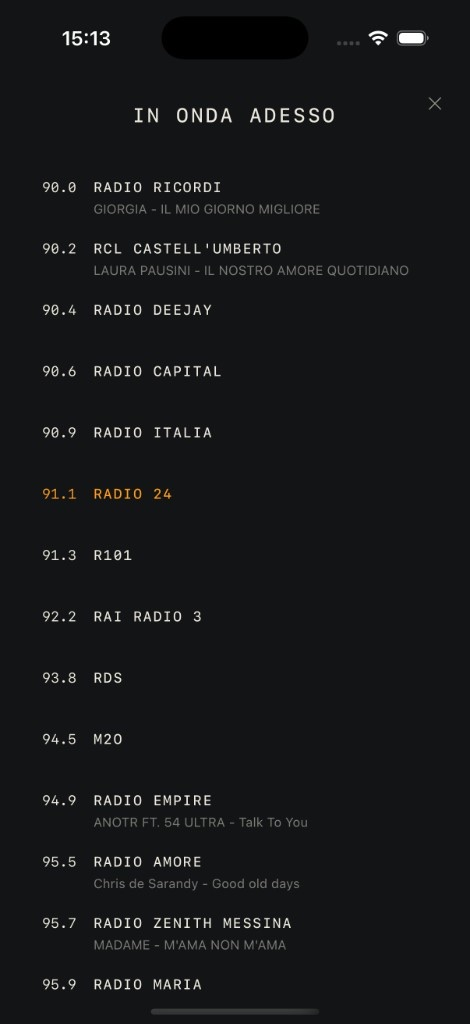
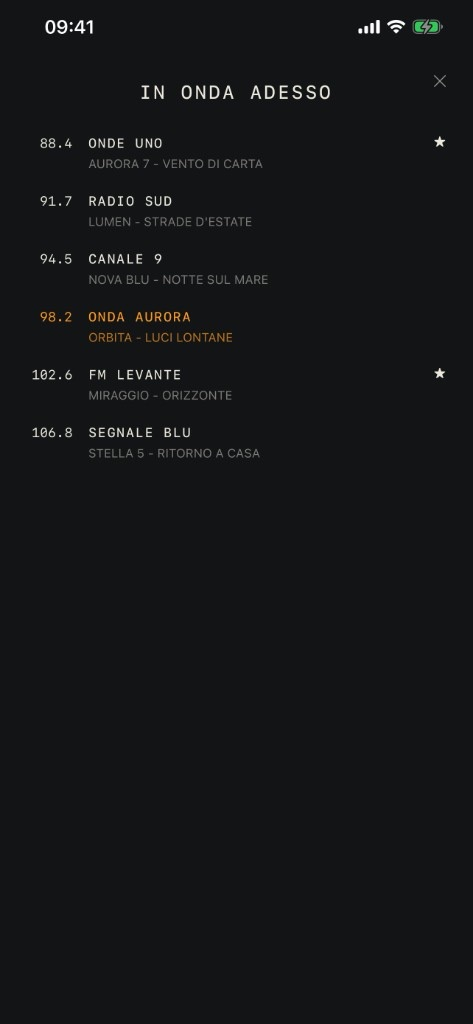
Update Onde product screenshots

diff --git a/src/app/onde-dallo-stretto/content.ts b/src/app/onde-dallo-stretto/content.ts
@@ -63,11 +63,11 @@ export const ONDE_STRINGS: Record<OndeLocale, OndeStrings> = {
     shots: [
       {
         src: "/lab/onde-shot-dial.jpg",
-        alt: "L'app Onde dallo Stretto — sintonizzata su 94.9 FM, Radio Empire",
+        alt: "L'app Onde dallo Stretto — sintonizzata su 106.8 FM, SEGNALE BLU",
       },
       {
         src: "/lab/onde-shot-tuning.jpg",
-        alt: "L'app Onde dallo Stretto — la manopola su 91.1 FM, Radio 24",
+        alt: "L'app Onde dallo Stretto — la manopola su 88.4 FM, ONDE UNO, preset 1",
       },
       {
         src: "/lab/onde-shot-onair.jpg",
@@ -101,11 +101,11 @@ export const ONDE_STRINGS: Record<OndeLocale, OndeStrings> = {
     shots: [
       {
         src: "/lab/onde-shot-dial.jpg",
-        alt: "Onde dallo Stretto app — tuned to 94.9 FM, Radio Empire",
+        alt: "Onde dallo Stretto app — tuned to 106.8 FM, SEGNALE BLU",
       },
       {
         src: "/lab/onde-shot-tuning.jpg",
-        alt: "Onde dallo Stretto app — turning the dial to 91.1 FM, Radio 24",
+        alt: "Onde dallo Stretto app — dial on 88.4 FM, ONDE UNO, preset 1",
       },
       {
         src: "/lab/onde-shot-onair.jpg",
@@ -139,11 +139,11 @@ export const ONDE_STRINGS: Record<OndeLocale, OndeStrings> = {
     shots: [
       {
         src: "/lab/onde-shot-dial.jpg",
-        alt: "Onde dallo Stretto — 94.9 FM、Radio Empire を受信中",
+        alt: "Onde dallo Stretto — 106.8 FM、SEGNALE BLU を受信中",
       },
       {
         src: "/lab/onde-shot-tuning.jpg",
-        alt: "Onde dallo Stretto — ダイヤルを 91.1 FM、Radio 24 に",
+        alt: "Onde dallo Stretto — ダイヤルを 88.4 FM、ONDE UNO（プリセット1）に",
       },
       {
         src: "/lab/onde-shot-onair.jpg",
@@ -177,11 +177,11 @@ export const ONDE_STRINGS: Record<OndeLocale, OndeStrings> = {
     shots: [
       {
         src: "/lab/onde-shot-dial.jpg",
-        alt: "L'app Onde dallo Stretto — réglée sur 94.9 FM, Radio Empire",
+        alt: "L'app Onde dallo Stretto — réglée sur 106.8 FM, SEGNALE BLU",
       },
       {
         src: "/lab/onde-shot-tuning.jpg",
-        alt: "L'app Onde dallo Stretto — la molette sur 91.1 FM, Radio 24",
+        alt: "L'app Onde dallo Stretto — la molette sur 88.4 FM, ONDE UNO, présélection 1",
       },
       {
         src: "/lab/onde-shot-onair.jpg",
@@ -215,11 +215,11 @@ export const ONDE_STRINGS: Record<OndeLocale, OndeStrings> = {
     shots: [
       {
         src: "/lab/onde-shot-dial.jpg",
-        alt: "Die App Onde dallo Stretto — eingestellt auf 94.9 FM, Radio Empire",
+        alt: "Die App Onde dallo Stretto — eingestellt auf 106.8 FM, SEGNALE BLU",
       },
       {
         src: "/lab/onde-shot-tuning.jpg",
-        alt: "Die App Onde dallo Stretto — der Regler auf 91.1 FM, Radio 24",
+        alt: "Die App Onde dallo Stretto — der Regler auf 88.4 FM, ONDE UNO, Preset 1",
       },
       {
         src: "/lab/onde-shot-onair.jpg",
